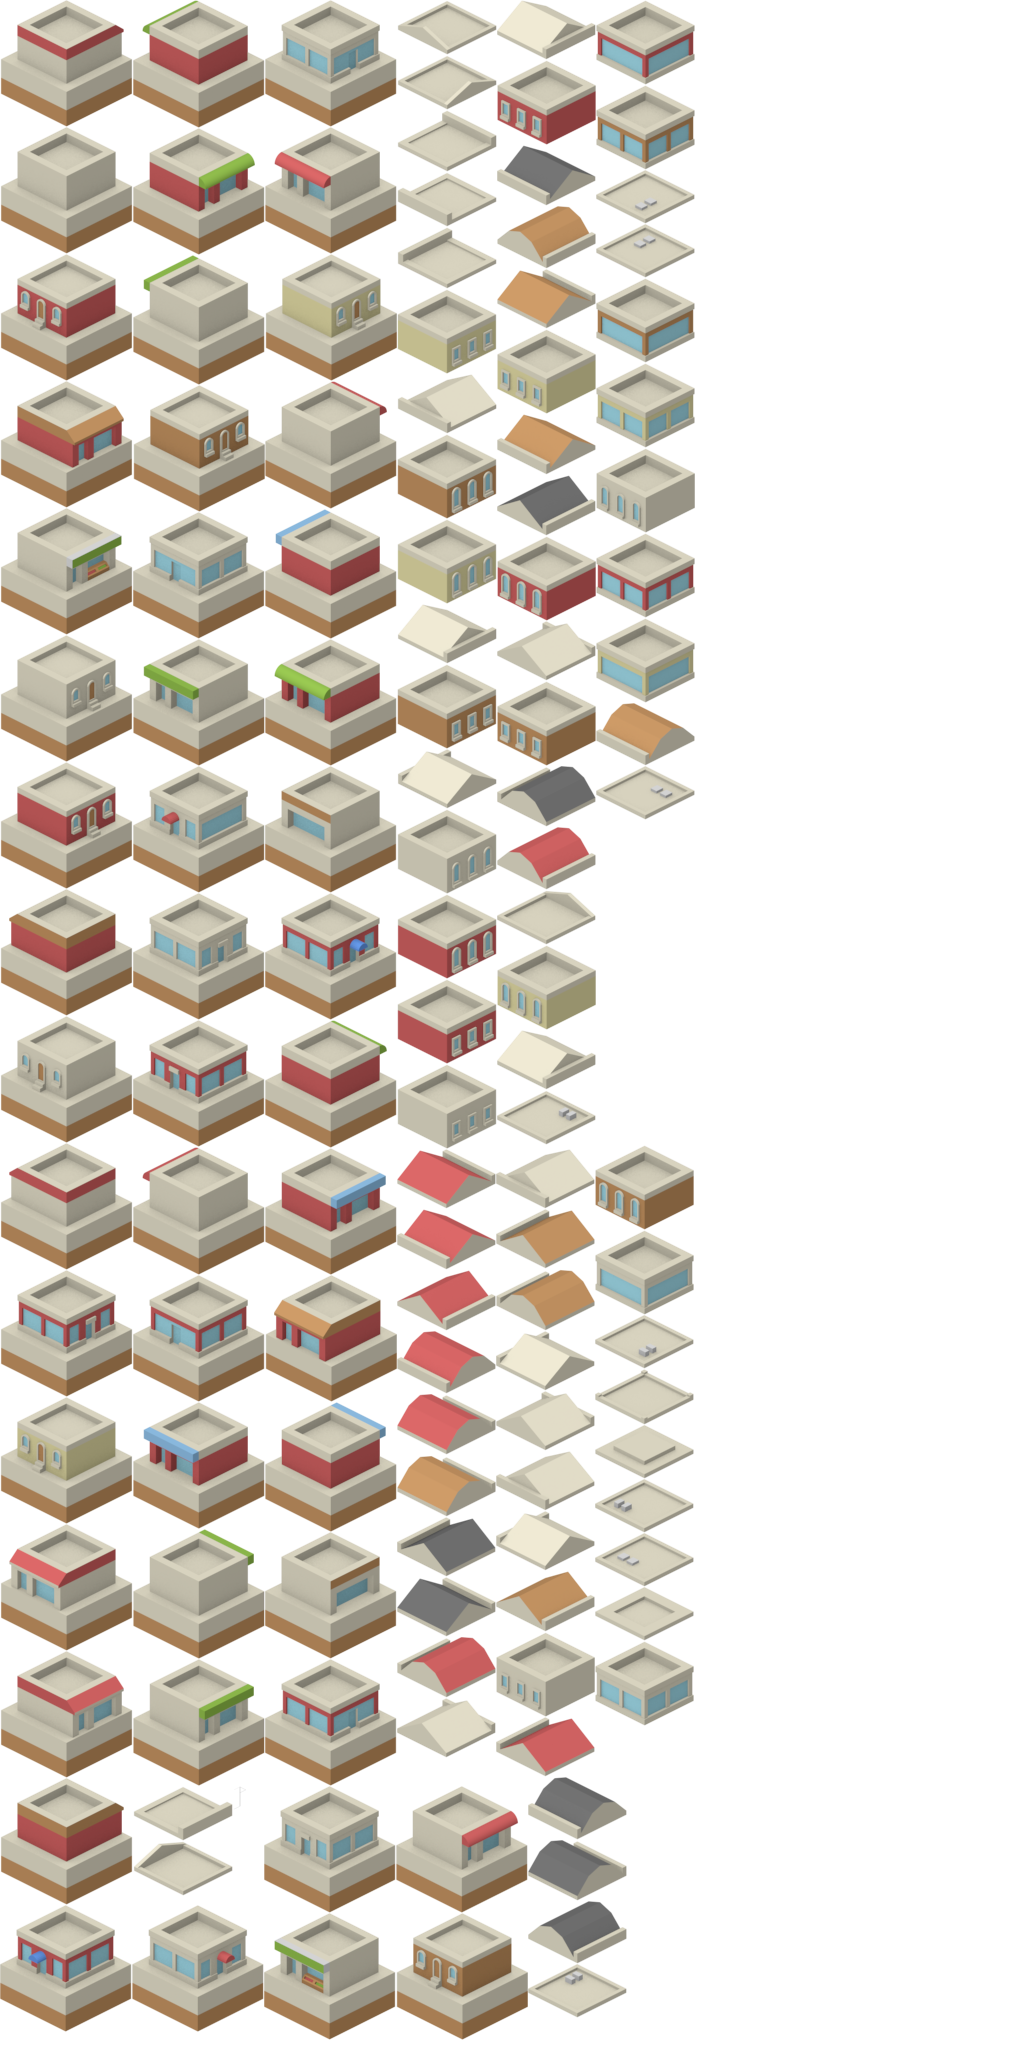
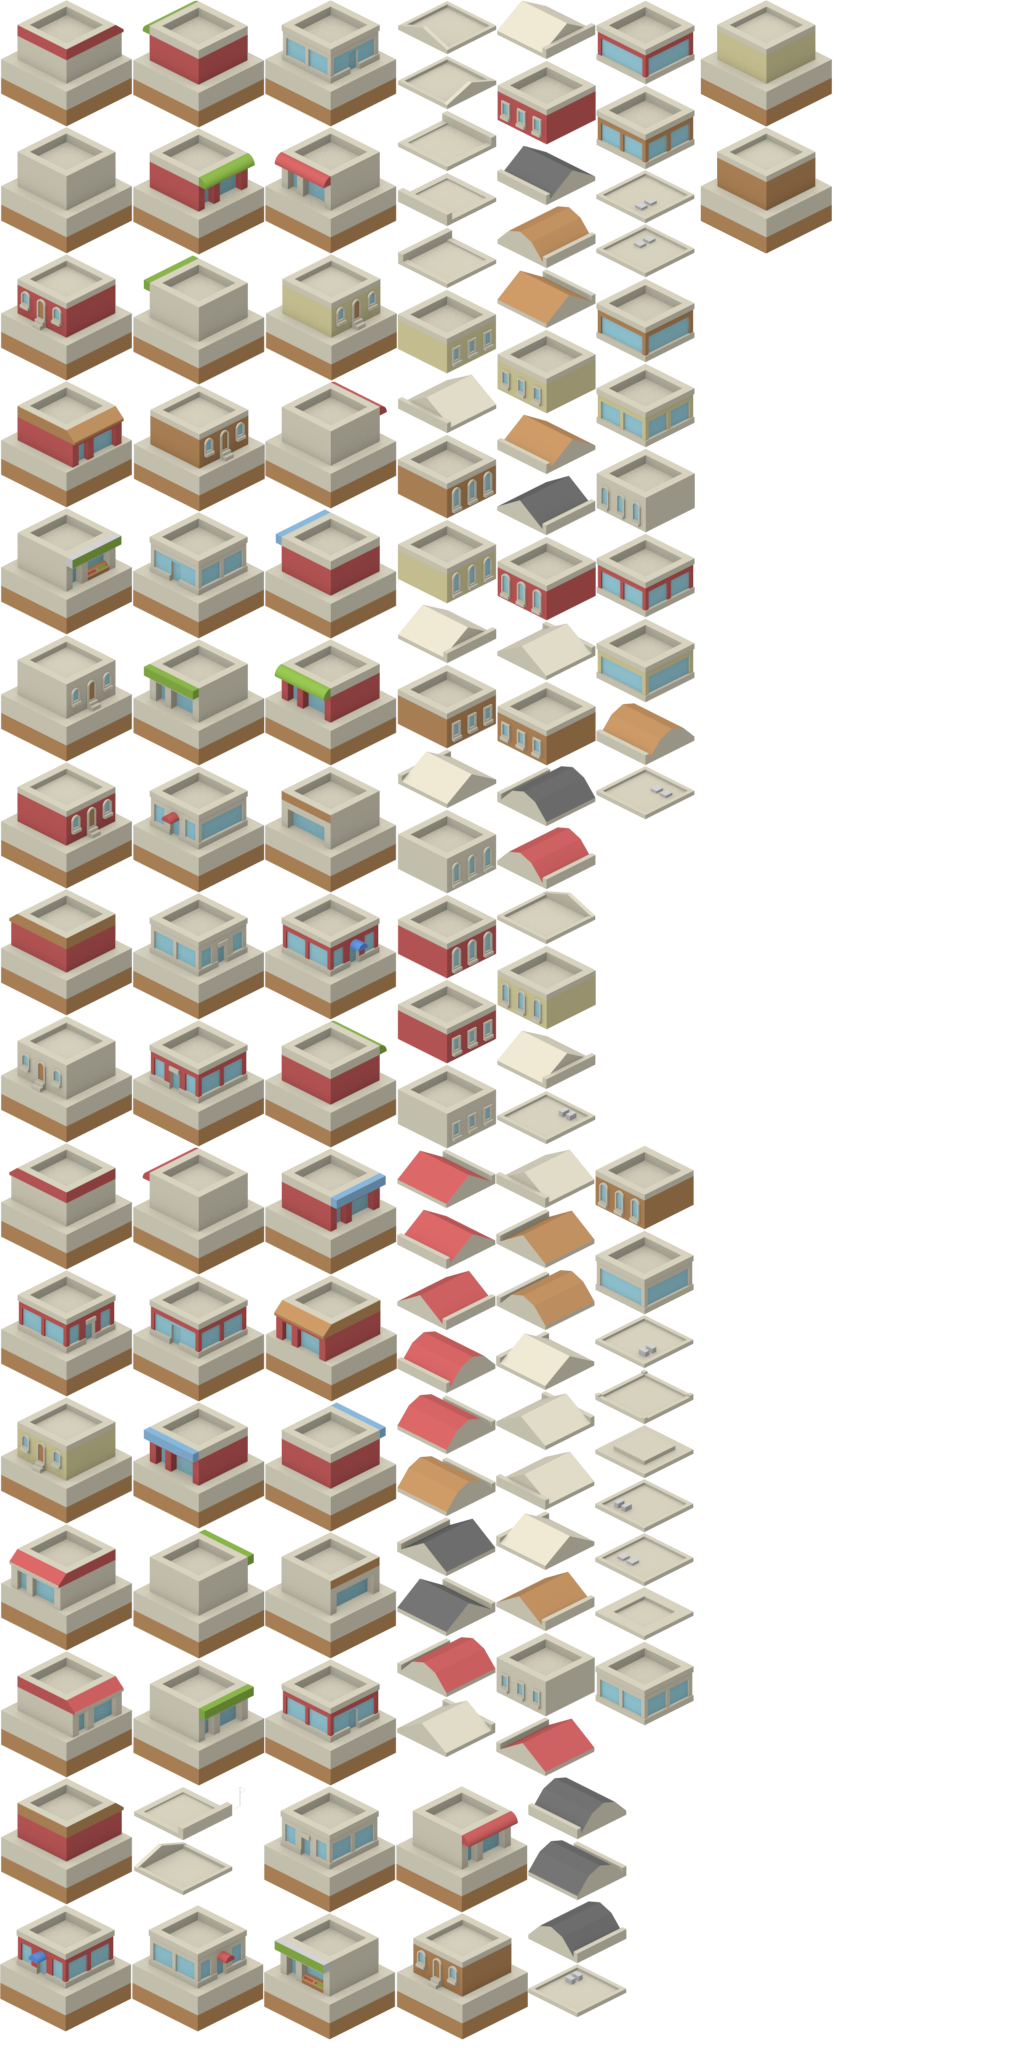
redid building generation, makes a proper city now

Changed region(s): [[0.6875, 0.0, 0.8125, 0.125]]

diff --git a/game/plugins/generate.js b/game/plugins/generate.js
@@ -28,6 +28,20 @@ Generate.prototype = {
     //density, 1 out of X building tiles will be a Y
     var PARK_DENSITY = 12;
     var WALL_DENSITY = 12;
+    //this will get it's own section i think
+    var heart = {
+      z_min: 2,
+      z_max: 4,
+      radius: 3
+    };
+    //calculate some values
+    heart.x = this.getRandomNumber((HIGHWAY_SINGLE_WIDTH + heart.radius), (map.dimensions.cols - HIGHWAY_SINGLE_WIDTH) - heart.radius);
+    heart.y = this.getRandomNumber((HIGHWAY_SINGLE_WIDTH + heart.radius), (map.dimensions.rows - HIGHWAY_SINGLE_WIDTH) - heart.radius);
+    heart.x_min = heart.x - heart.radius;
+    heart.x_max = heart.x + heart.radius;
+    heart.y_min = heart.y - heart.radius;
+    heart.y_max = heart.y + heart.radius;
+    //start the looping for layers
     var l = 0;
     var rect, box;
     //this is hardcoded for now, may change, may not, buildings start on 3
@@ -86,7 +100,7 @@ Generate.prototype = {
           var ewTiles = game.roads.getIndices(["e", "w"]);
           var nsTiles = game.roads.getIndices(["n", "s"]);
           var i = 0;
-          var box, cType, index;
+          var cType, index;
           while (i < tiles[l].length){
             //randomly place features
             if (tiles[l-1][i] == 66 && this.getRandomNumber(1,PARK_DENSITY) == 1){
@@ -107,12 +121,21 @@ Generate.prototype = {
                 if (nsTiles.indexOf(tiles[l-1][i]) != -1 && tiles[l-1][i + 1] == 66 && tiles[l][i + 1] === 0){eligibleDirs.push("w");}
                 if (ewTiles.indexOf(tiles[l-1][i]) != -1 && tiles[l-1][i + map.dimensions.cols] == 66 && tiles[l][i + map.dimensions.cols] === 0){eligibleDirs.push("n");}
                 if (nsTiles.indexOf(tiles[l-1][i]) != -1 && tiles[l-1][i - 1] == 66 && tiles[l][i - 1] === 0){eligibleDirs.push("e");}
-                //check to see what to do
+                //check to see what to do (draw the buildings)
                 if (eligibleDirs.indexOf("s") != -1){
                   //match the north side of the road
                   index = i - map.dimensions.cols;
                   if (cType == "building"){
-                    box = game.generate.generateBuilding("s", 1, 3);
+                    var coords = this.getCoordsFromIndex(map, index);
+                    console.log("drawing south: x: " + coords.x + " - y: " + coords.y);
+                    console.log(heart);
+                    if (coords.x >= heart.x_min && coords.x <= heart.x_max && coords.y >= heart.y_min && coords.y <= heart.y_max){
+                      //this is a commercial building
+                      box = game.generate.generateBuilding("commercial", "s", heart.z_min, heart.z_max);
+                    }else{
+                      //this is a residential building
+                      box = game.generate.generateBuilding("residential", "s", 1, 2);
+                    }
                     tiles = game.generate.mergePartial3DSafe(map, tiles, box, l, index);
                   }else if (cType == "wall"){
                     tiles[l-1][index] = game.tiles.walls.s[this.getRandomNumber(0, (game.tiles.walls.s.length - 1))];
@@ -122,7 +145,14 @@ Generate.prototype = {
                   //match the west side of the road
                   index = i - 1;
                   if (cType == "building"){
-                    box = game.generate.generateBuilding("e", 1, 3);
+                    var coords = this.getCoordsFromIndex(map, index);
+                    if (coords.x >= heart.x_min && coords.x <= heart.x_max && coords.y >= heart.y_min && coords.y <= heart.y_max){
+                      //this is a commercial building
+                      box = game.generate.generateBuilding("commercial", "e", heart.z_min, heart.z_max);
+                    }else{
+                      //this is a residential building
+                      box = game.generate.generateBuilding("residential", "e", 1, 2);
+                    }
                     tiles = game.generate.mergePartial3DSafe(map, tiles, box, l, index);
                   }else if (cType == "wall"){
                     tiles[l-1][index] = game.tiles.walls.e[this.getRandomNumber(0, (game.tiles.walls.e.length - 1))];
@@ -132,7 +162,14 @@ Generate.prototype = {
                   //match the east side of the road
                   index = i + 1;
                   if (cType == "building"){
-                    box = game.generate.generateBuilding("w", 1, 3);
+                    var coords = this.getCoordsFromIndex(map, index);
+                    if (coords.x >= heart.x_min && coords.x <= heart.x_max && coords.y >= heart.y_min && coords.y <= heart.y_max){
+                      //this is a commercial building
+                      box = game.generate.generateBuilding("commercial", "w", heart.z_min, heart.z_max);
+                    }else{
+                      //this is a residential building
+                      box = game.generate.generateBuilding("residential", "w", 1, 2);
+                    }
                     tiles = game.generate.mergePartial3DSafe(map, tiles, box, l, index);
                   }else if (cType == "wall"){
                     tiles[l-1][index] = game.tiles.walls.w[this.getRandomNumber(0, (game.tiles.walls.w.length - 1))];
@@ -142,7 +179,14 @@ Generate.prototype = {
                   //match the south side of the road
                   index = i + map.dimensions.cols;
                   if (cType == "building"){
-                    box = game.generate.generateBuilding("n", 1, 3);
+                    var coords = this.getCoordsFromIndex(map, index);
+                    if (coords.x >= heart.x_min && coords.x <= heart.x_max && coords.y >= heart.y_min && coords.y <= heart.y_max){
+                      //this is a commercial building
+                      box = game.generate.generateBuilding("commercial", "n", heart.z_min, heart.z_max);
+                    }else{
+                      //this is a residential building
+                      box = game.generate.generateBuilding("residential", "n", 1, 2);
+                    }
                     tiles = game.generate.mergePartial3DSafe(map, tiles, box, l, index);
                   }else if (cType == "wall"){
                     tiles[l-1][index] = game.tiles.walls.n[this.getRandomNumber(0, (game.tiles.walls.n.length - 1))];
@@ -233,31 +277,36 @@ Generate.prototype = {
     return tiles;
   },
   //buildings starts here
-  generateBuilding: function(direction, low, high){
-    var colors = ["red", "grey"];
+  generateBuilding: function(type, direction, low, high){
+    var colors = ["red", "grey", "brown", "beige"];
     var color = colors[this.getRandomNumber(0, colors.length -1)];
-    var building = {
-      bottom: game.tiles.buildings[color].bottoms[direction][this.getRandomNumber(0, game.tiles.buildings[color].bottoms[direction].length -1)],
-      floors: this.getRandomNumber(low, high)
-    };
-    if (this.getRandomNumber(0,1) == 1){
-      //this is going to be an "all" direction top
-      building.top = game.tiles.buildings[color].tops["all"][this.getRandomNumber(0, game.tiles.buildings[color].tops["all"].length -1)];
-    }else{
-      //directional top
-      if (direction == "n" || direction == "s"){
-        building.top = game.tiles.buildings[color].tops["ns"][this.getRandomNumber(0, game.tiles.buildings[color].tops["ns"].length -1)];
+    var building = null;
+    while (building === null){
+      if (game.tiles.buildings[type][color].bottoms[direction].length != 0){
+        var building = {
+          bottom: game.tiles.buildings[type][color].bottoms[direction][this.getRandomNumber(0, game.tiles.buildings[type][color].bottoms[direction].length -1)],
+          floors: this.getRandomNumber(low, high)
+        };
       }else{
-        building.top = game.tiles.buildings[color].tops["ew"][this.getRandomNumber(0, game.tiles.buildings[color].tops["ew"].length -1)];
+        color = colors[this.getRandomNumber(0, colors.length -1)];
       }
     }
-    if (this.getRandomNumber(0,1) == 1){
+    console.log("generateBuilding: color: " + color + " - type: " + type + " - direction: " + direction);
+    //directional top
+    if (direction == "n" || direction == "s"){
+      building.top = game.tiles.buildings[type][color].tops["ns"][this.getRandomNumber(0, game.tiles.buildings[type][color].tops["ns"].length -1)];
+    }else{
+      building.top = game.tiles.buildings[type][color].tops["ew"][this.getRandomNumber(0, game.tiles.buildings[type][color].tops["ew"].length -1)];
+    }
+    //pick a roof
+    if (this.getRandomNumber(0,1) == 1 && game.tiles.buildings[type]["all"].roofs["all"].length != 0){
       //this is going to be an "all" direction roof
-      building.roof = game.tiles.buildings["all"].roofs["all"][this.getRandomNumber(0, game.tiles.buildings["all"].roofs["all"].length -1)];
+      building.roof = game.tiles.buildings[type]["all"].roofs["all"][this.getRandomNumber(0, game.tiles.buildings[type]["all"].roofs["all"].length -1)];
     }else{
       //directional top
-      building.roof = game.tiles.buildings["all"].roofs[direction][this.getRandomNumber(0, game.tiles.buildings["all"].roofs[direction].length -1)];
+      building.roof = game.tiles.buildings[type]["all"].roofs[direction][this.getRandomNumber(0, game.tiles.buildings[type]["all"].roofs[direction].length -1)];
     }
+    console.log(building);
     return this.makeBuilding(building);
   },
   makeBuilding: function(building){
@@ -386,6 +435,17 @@ Generate.prototype = {
       l++;
     }
     return tiles;
+  },
+  getCoordsFromIndex: function(map, index){
+    //1,1 is top left corner
+    //give it the index of the tile you want and get the x,y coords
+    var y = Math.floor(index / map.dimensions.rows);
+    var x = index - (y * map.dimensions.cols);
+    console.log("getCoordsFromIndex: x: " + x + " - y: " + y + " - index: " + index);
+    return {
+      x: x + 1,
+      y: y + 1
+    };
   },
   getIndexFromCoords: function(map, x, y){
     //1,1 is top left corner

diff --git a/game/plugins/roads.js b/game/plugins/roads.js
@@ -81,7 +81,6 @@ Roads.prototype = {
     switch (direction){
       case "n":
         //set join piece
-        console.log("capping x: " + x + " - y:" + y);
         tiles[game.generate.getIndexFromCoords(map, x, y - 1)] = game.tiles.highways.joins.s;
         //caps
         tiles[game.generate.getIndexFromCoords(map, x - 1, y)] = game.tiles.highways.edge_caps.e;
